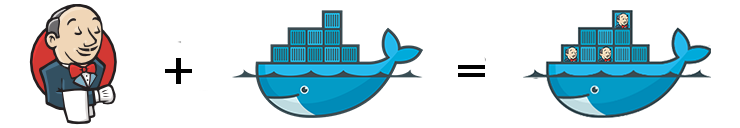
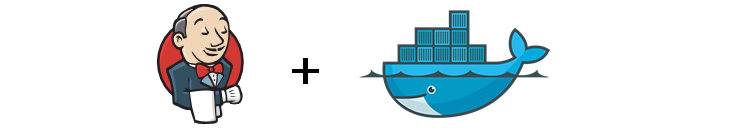
Change docker-jenkins image.

diff --git a/blog/_posts/16-02-01-migrar-jenkins-hacia-un-contenedor-en-docker.md b/blog/_posts/16-02-01-migrar-jenkins-hacia-un-contenedor-en-docker.md
@@ -5,7 +5,7 @@ permalink: /blog/migrar-jenkins-hacia-un-contenedor-en-docker/
 translate_en: /en/blog/migrate-jenkins-to-a-docker-container/
 category: [articulo]
 tags: [docker, jenkins, ubuntu]
-image: /images/banners/docker-jenkins-og.png
+image: /images/banners/docker-og.png
 excerpt: Migrar tu actual <strong><em>Servicio de Jenkins</em></strong> hacia un <strong><em>contenedor en Docker</em></strong> es <strong><em>bien sencillo</em></strong>. El sistema Jenkins <strong><em>solo dejará de brindar servicios durante 5 segundos y sin perder información</em></strong>.
 ---
 

diff --git a/en/blog/_posts/16-02-01-migrate-jenkins-to-docker-container.md b/en/blog/_posts/16-02-01-migrate-jenkins-to-docker-container.md
@@ -5,7 +5,7 @@ permalink: /en/blog/migrate-jenkins-to-a-docker-container/
 translate_es: /blog/migrar-jenkins-hacia-un-contenedor-en-docker/
 category: [article]
 tags: [docker, jenkins, ubuntu]
-image: /images/banners/docker-jenkins-og.png
+image: /images/banners/docker-og.png
 excerpt: Migrate your current <strong><em>Jenkins Service</em></strong> to a <strong><em>Docker Container</em></strong> is very easy. The Jenkins system <strong><em>just will be out of service during 5 seconds and without be lost information</em></strong>.
 ---
 
